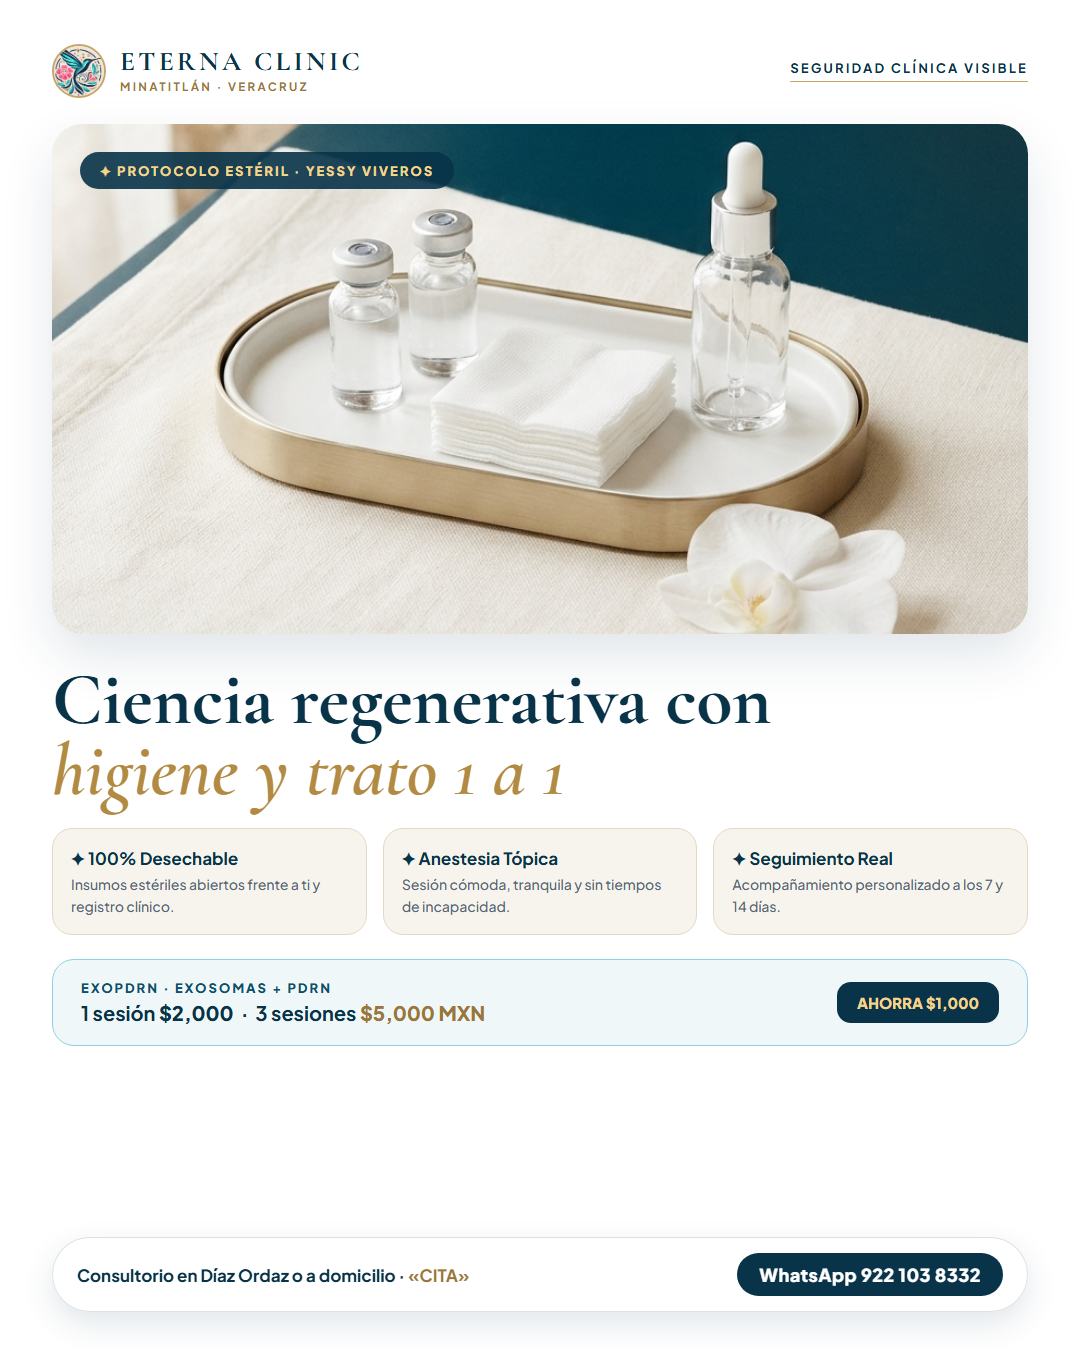
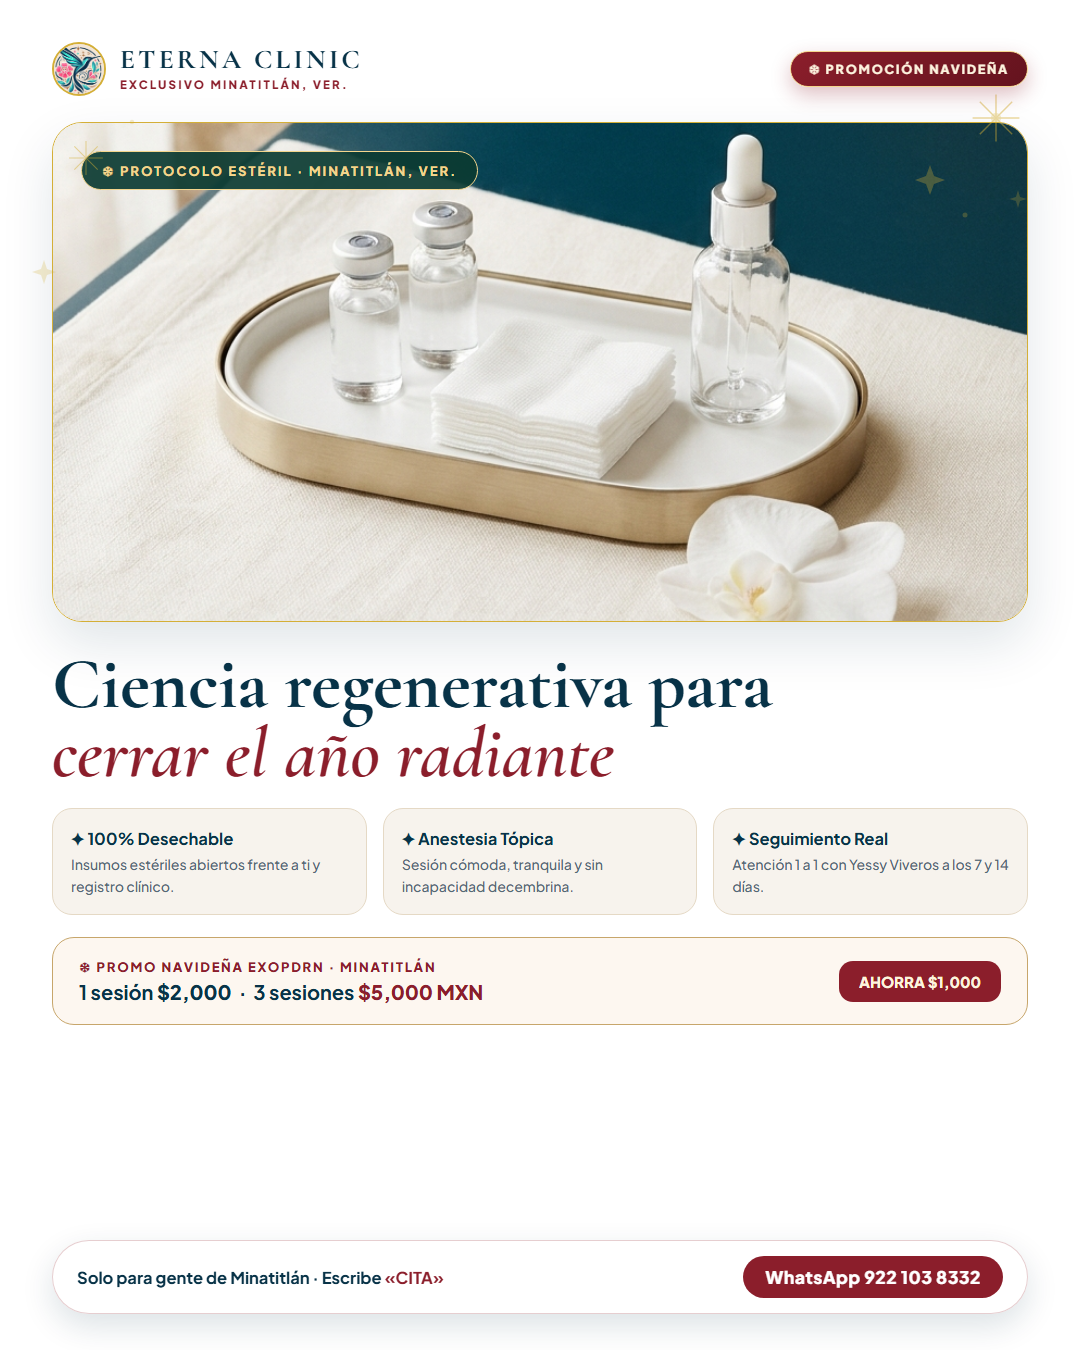
Edicion Promocion Navidena Exclusiva para Minatitlan en las 10 imagenes editoriales y portada web

diff --git a/index.html b/index.html
@@ -585,8 +585,8 @@
 <header class="hero" id="inicio">
   <div class="hero-in">
     <div>
-      <div class="pill-top">✦ Propuesta Exclusiva para Yessy Viveros · Minatitlán, Veracruz</div>
-      <h1>Estrategia y Campaña <em>Kiara Reju</em> &amp; <em>ExoPDRN</em></h1>
+      <div class="pill-top" style="background:rgba(139,30,43,0.45);border-color:rgba(243,213,141,0.75);">❄ Promoción Navideña Exclusiva para Minatitlán, Veracruz · Yessy Viveros</div>
+      <h1>Campaña Navideña <em>Kiara Reju</em> &amp; <em>ExoPDRN</em></h1>
       <p class="hero-lead">
         Diagnóstico completo del mercado local en Minatitlán y Cosoleacaque, posicionamiento clínico sin canibalización entre tratamientos, y <strong>30 anuncios listos para publicar</strong> (20 imágenes — 10 Edición Revista de Lujo + 10 Clásicas — y 10 videos Full HD 1080×1920 con Mapa 3D, color HDR y voz en español mexicano).
       </p>
@@ -598,7 +598,7 @@
       </div>
     </div>
     <div class="hero-card">
-      <h3>Promociones Activas</h3>
+      <h3>❄ Promociones Navideñas · Minatitlán</h3>
       <div class="promo-mini">
         <div class="t">
           <span class="name">Kiara Reju · Skinbooster</span>
@@ -773,7 +773,7 @@
   </div>
 
   <div class="tabs" id="img-tabs">
-    <button class="tab-btn active" data-filter="editorial">✦ Edición Revista (10)</button>
+    <button class="tab-btn active" data-filter="editorial">❄ Edición Navideña Minatitlán (10)</button>
     <button class="tab-btn" data-filter="clasica">Edición Clásica (10)</button>
     <button class="tab-btn" data-filter="kr">Kiara Reju (10)</button>
     <button class="tab-btn" data-filter="exo">ExoPDRN (10)</button>
